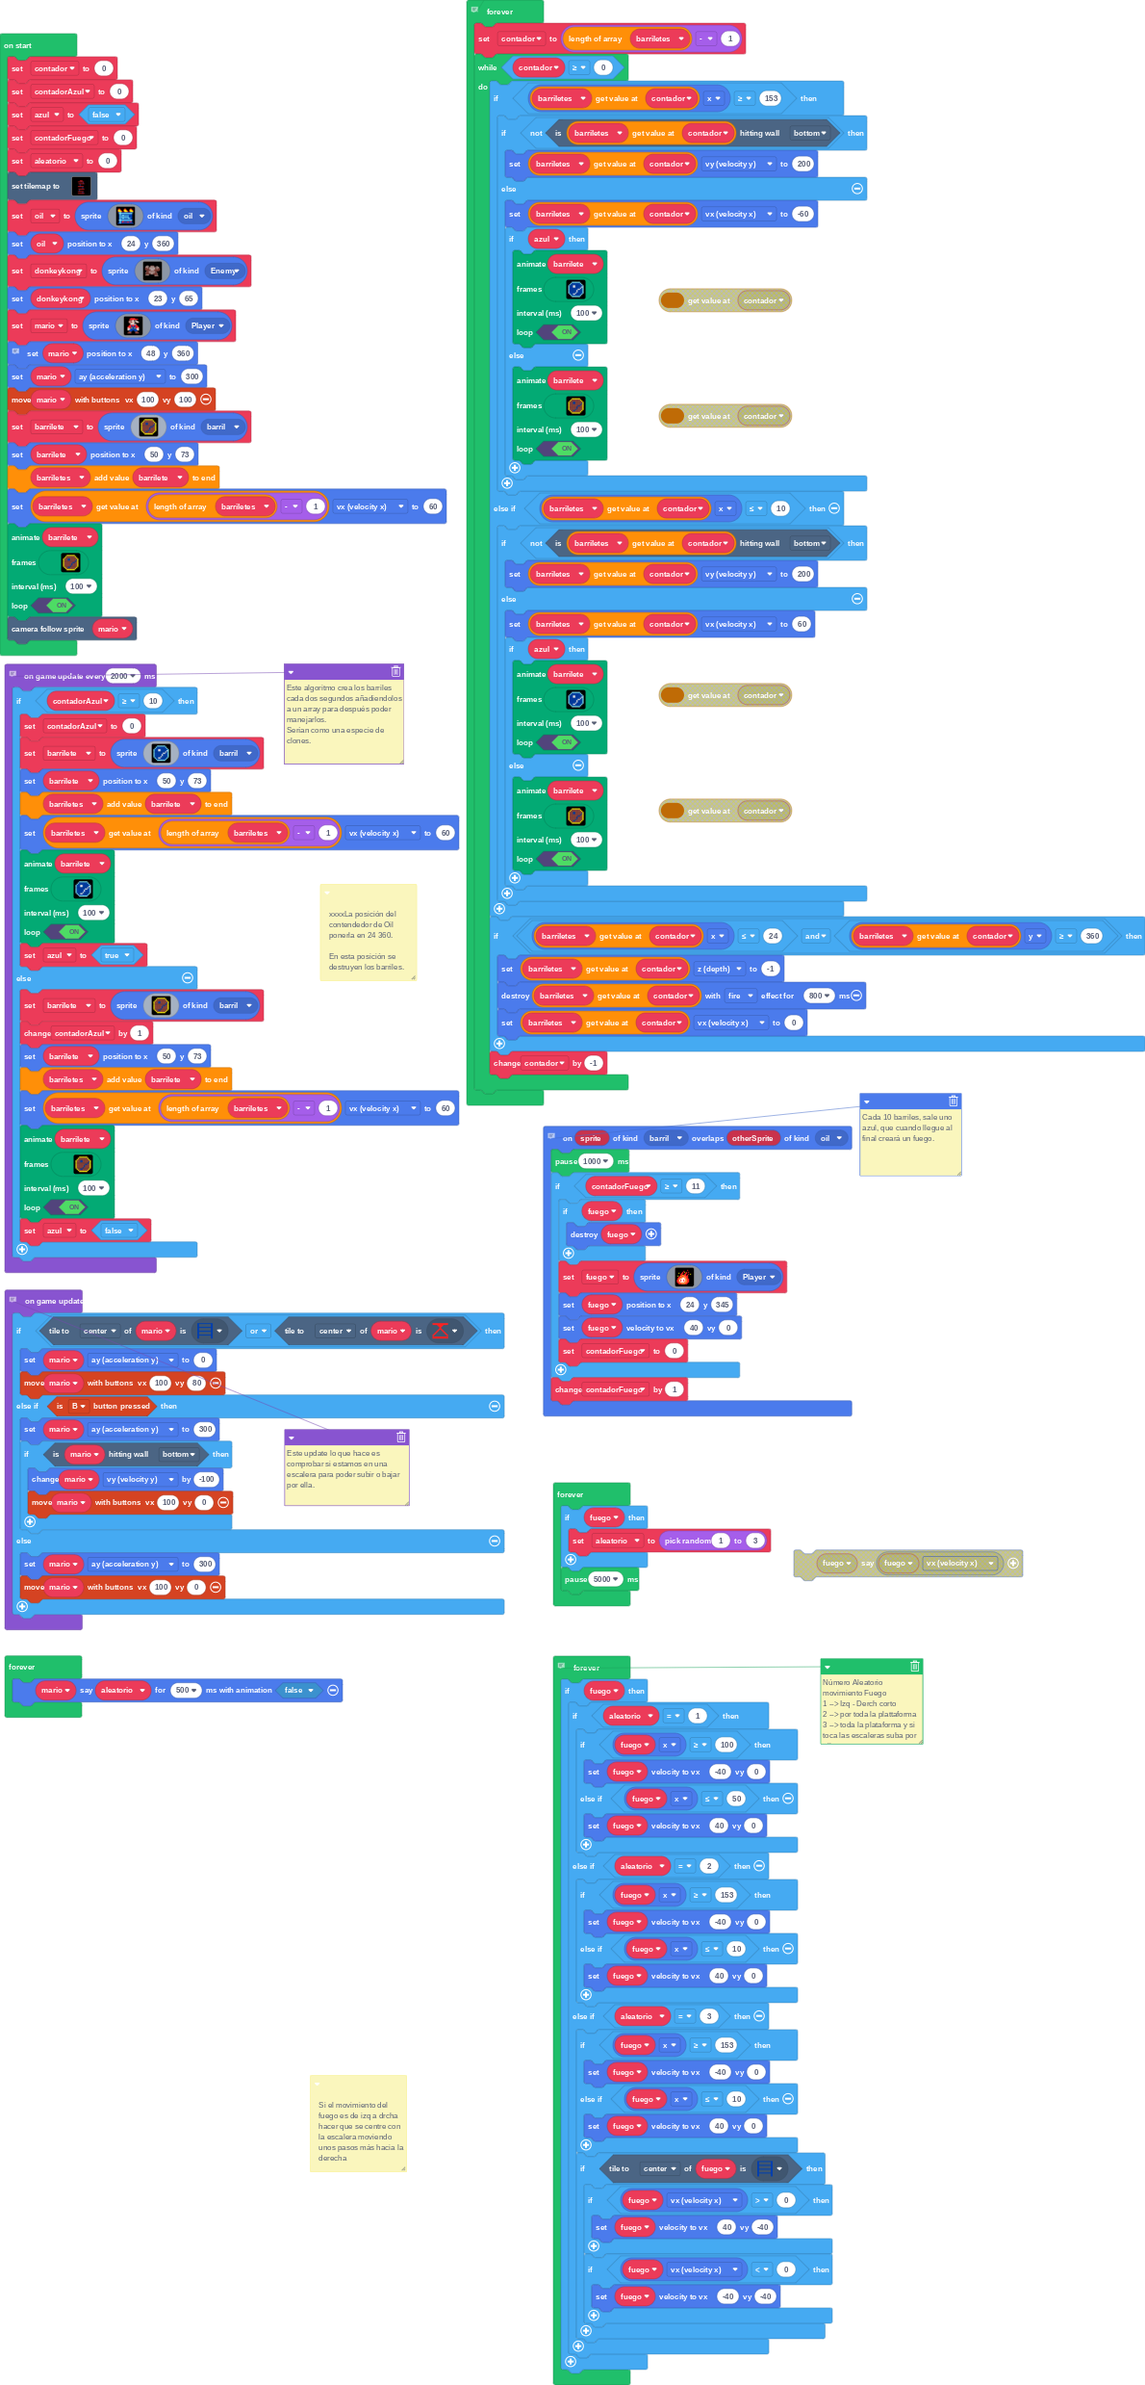
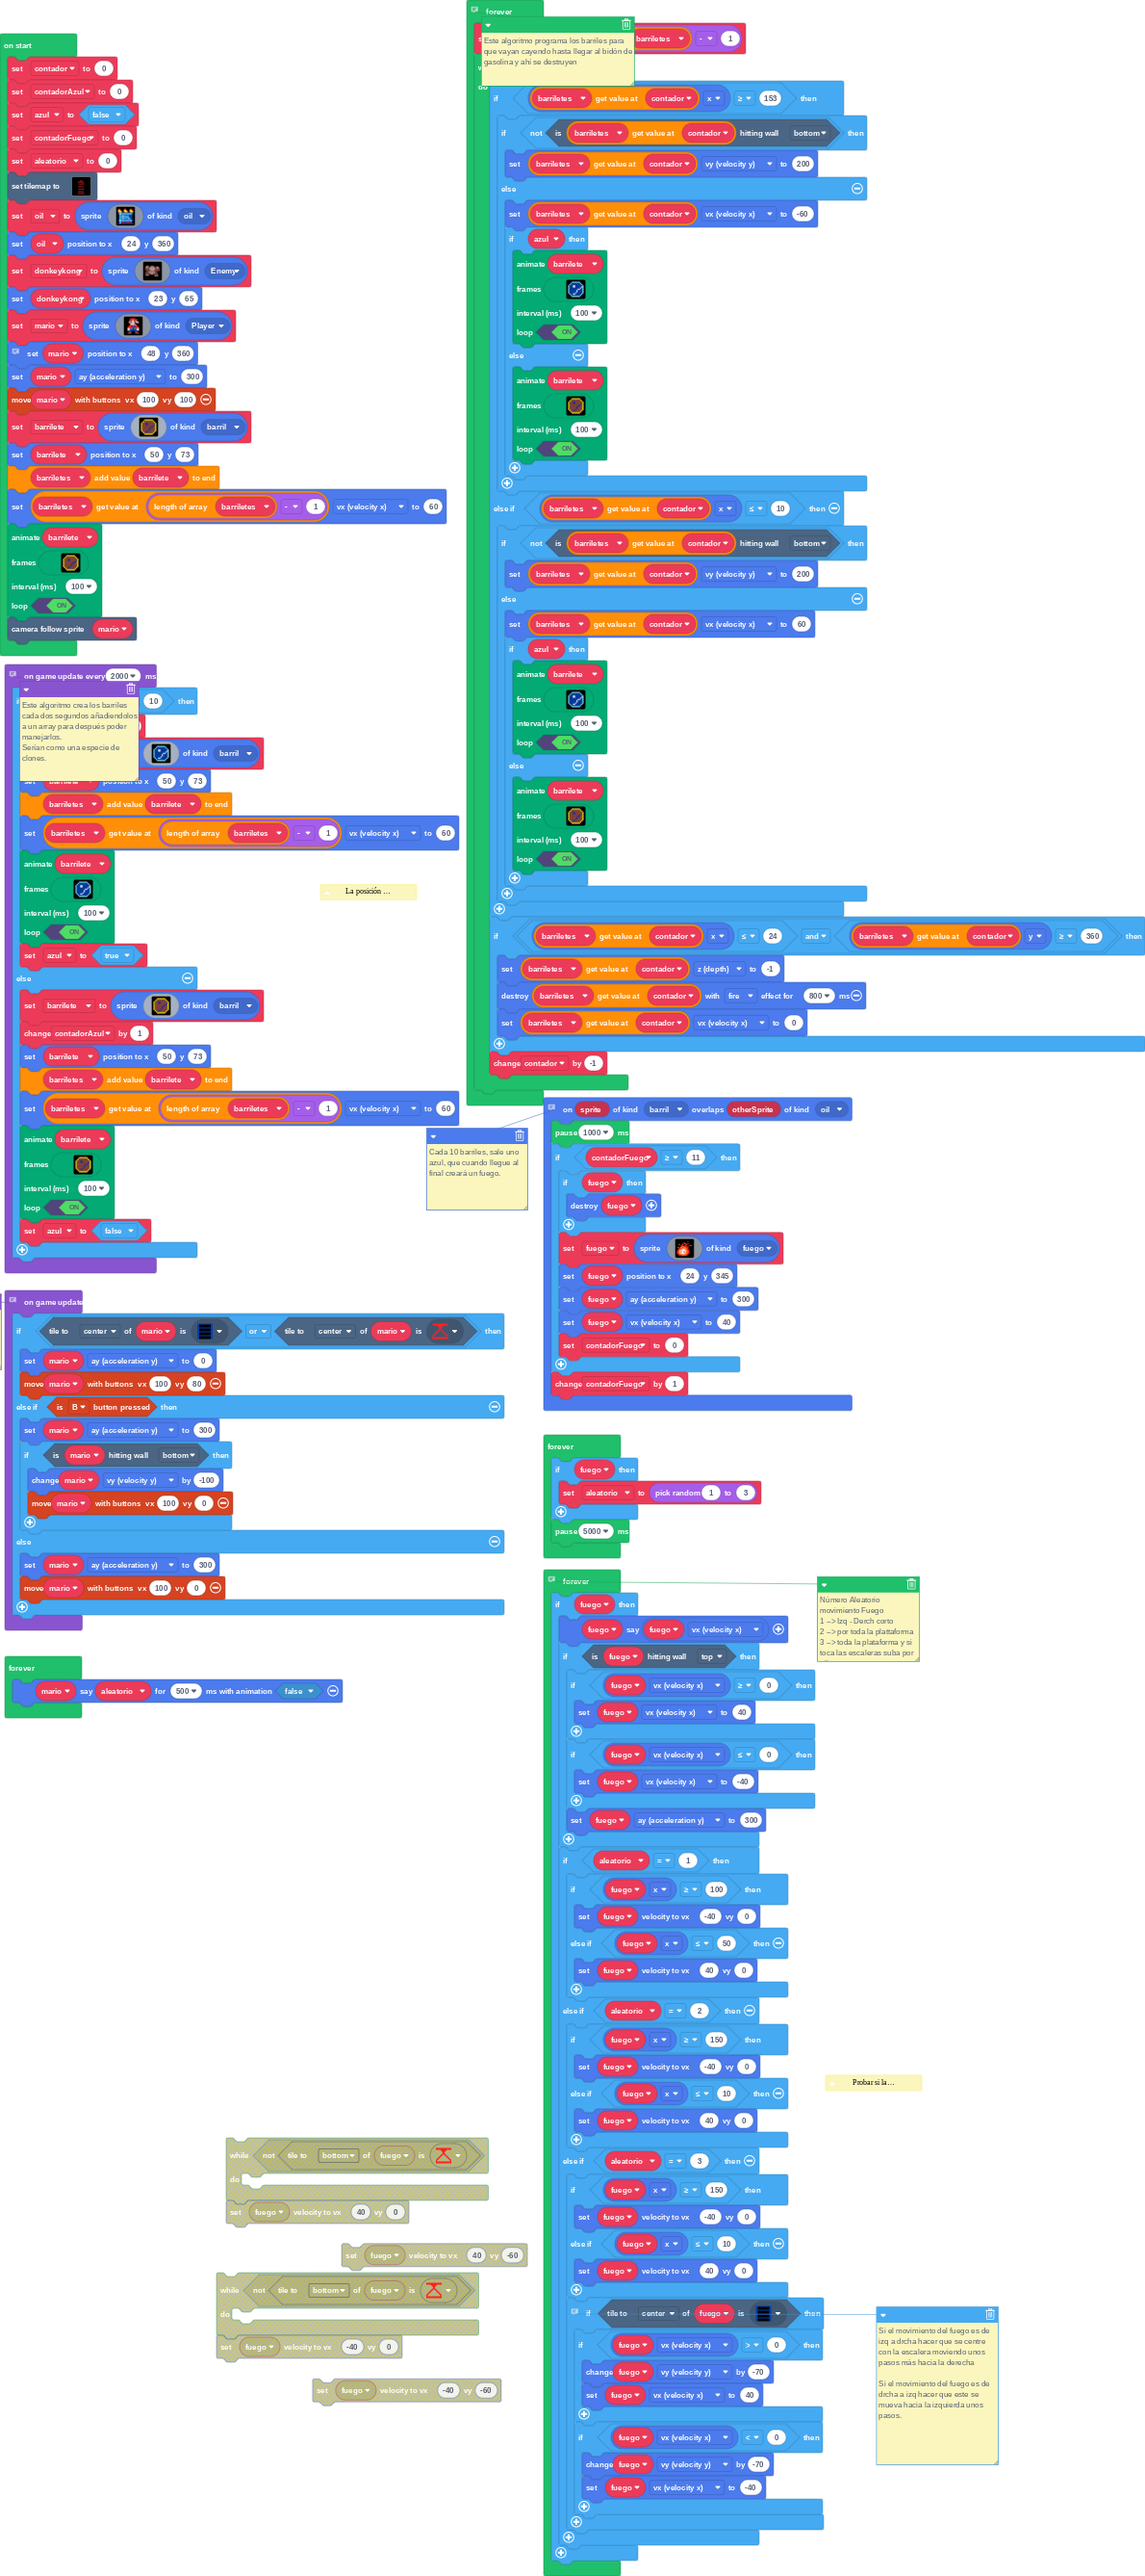
Programación del movimiento del fuego.

diff --git a/main.ts b/main.ts
@@ -2,12 +2,8 @@ namespace SpriteKind {
     export const EscaleraType = SpriteKind.create()
     export const barril = SpriteKind.create()
     export const oil = SpriteKind.create()
+    export const fuego = SpriteKind.create()
 }
-/**
- * Si el movimiento del fuego es de izq a drcha hacer que se centre con la escalera moviendo unos pasos más hacia la derecha
- * 
- * Si el movimiento del fuego es de drcha a izq hacer que este se mueva hacia la izquierda unos pasos.
- */
 // Cada 10 barriles, sale uno azul, que cuando llegue al final creará un fuego. 
 sprites.onOverlap(SpriteKind.barril, SpriteKind.oil, function (sprite, otherSprite) {
     pause(1000)
@@ -15,9 +11,10 @@ sprites.onOverlap(SpriteKind.barril, SpriteKind.oil, function (sprite, otherSpri
         if (fuego) {
             fuego.destroy()
         }
-        fuego = sprites.create(assets.image`Fueguito`, SpriteKind.Player)
+        fuego = sprites.create(assets.image`Fueguito`, SpriteKind.fuego)
         fuego.setPosition(24, 345)
-        fuego.setVelocity(40, 0)
+        fuego.ay = 300
+        fuego.vx = 40
         contadorFuego = 0
     }
     contadorFuego += 1
@@ -70,7 +67,7 @@ game.onUpdate(function () {
     }
 })
 /**
- * xxxxLa posición del contendedor de Oil ponerla en 24 360.
+ * La posición del contendedor de Oil ponerla en 24 360.
  * 
  * En esta posición se destruyen los barriles.
  * 
@@ -169,15 +166,25 @@ forever(function () {
     }
     pause(5000)
 })
-forever(function () {
-    mario.sayText(aleatorio, 500, false)
-})
+/**
+ * Probar si la velocidad en x es cero, hacer que cambie al último movimiento que estuviese haciendo. Izquierda o Derecha.
+ */
 // Número Aleatorio movimiento Fuego
 // 1 --> Izq - Derch corto
 // 2 --> por toda la plattaforma
 // 3 --> toda la plataforma y si toca las escaleras suba por ellas.
 forever(function () {
     if (fuego) {
+        fuego.sayText(fuego.vx)
+        if (fuego.isHittingTile(CollisionDirection.Top)) {
+            if (fuego.vx >= 0) {
+                fuego.vx = 40
+            }
+            if (fuego.vx <= 0) {
+                fuego.vx = -40
+            }
+            fuego.ay = 300
+        }
         if (aleatorio == 1) {
             if (fuego.x >= 100) {
                 fuego.setVelocity(-40, 0)
@@ -185,25 +192,33 @@ forever(function () {
                 fuego.setVelocity(40, 0)
             }
         } else if (aleatorio == 2) {
-            if (fuego.x >= 153) {
+            if (fuego.x >= 150) {
                 fuego.setVelocity(-40, 0)
             } else if (fuego.x <= 10) {
                 fuego.setVelocity(40, 0)
             }
         } else if (aleatorio == 3) {
-            if (fuego.x >= 153) {
+            if (fuego.x >= 150) {
                 fuego.setVelocity(-40, 0)
             } else if (fuego.x <= 10) {
                 fuego.setVelocity(40, 0)
             }
+            // Si el movimiento del fuego es de izq a drcha hacer que se centre con la escalera moviendo unos pasos más hacia la derecha
+            // 
+            // Si el movimiento del fuego es de drcha a izq hacer que este se mueva hacia la izquierda unos pasos.
             if (fuego.tileKindAt(TileDirection.Center, assets.tile`escaleras`)) {
                 if (fuego.vx > 0) {
-                    fuego.setVelocity(40, -40)
+                    fuego.vy += -70
+                    fuego.vx = 40
                 }
                 if (fuego.vx < 0) {
-                    fuego.setVelocity(-40, -40)
+                    fuego.vy += -70
+                    fuego.vx = -40
                 }
             }
         }
     }
+})
+forever(function () {
+    mario.sayText(aleatorio, 500, false)
 })

diff --git a/tilemap.g.ts b/tilemap.g.ts
@@ -65,7 +65,7 @@ namespace myTiles {
 . . . . . . . . . . 
 . . . . . . . . . . 
 2 2 2 2 2 2 2 2 2 2 
-`, [myTiles.transparency16,myTiles.tile1,myTiles.tile21,myTiles.tile5], TileScale.Sixteen);
+`, [myTiles.transparency16,myTiles.tile1,myTiles.tile21], TileScale.Sixteen);
         }
         return null;
     })
